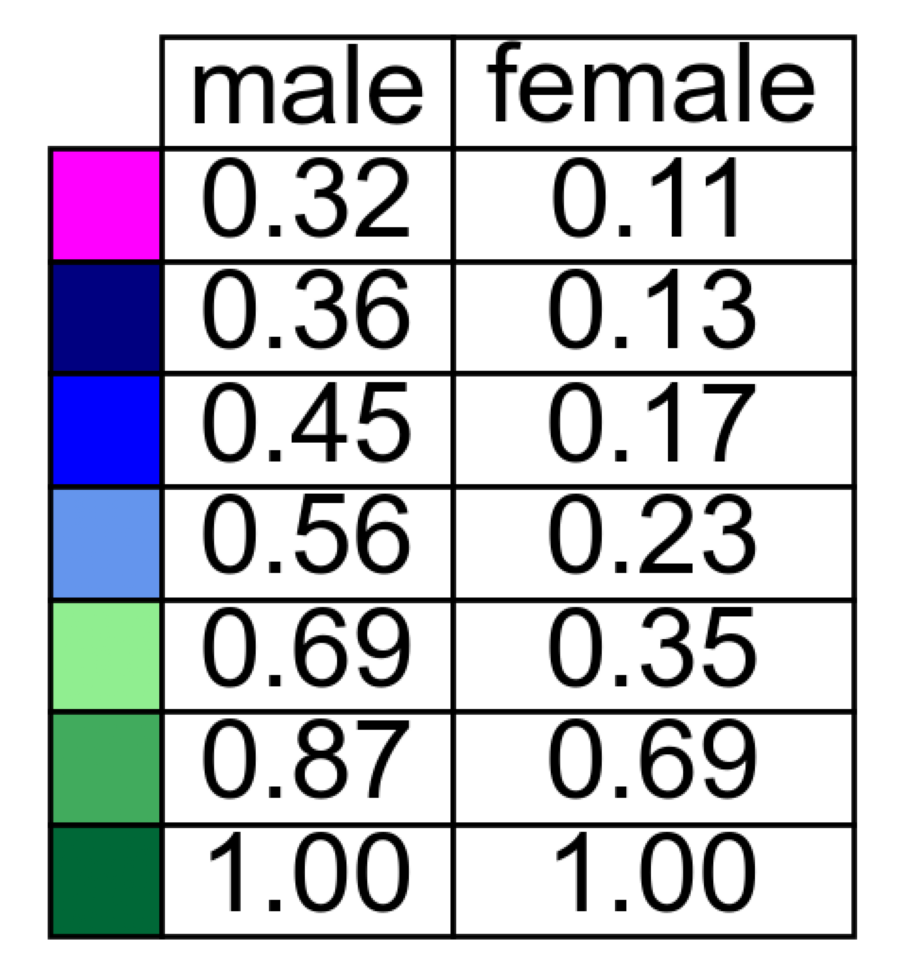
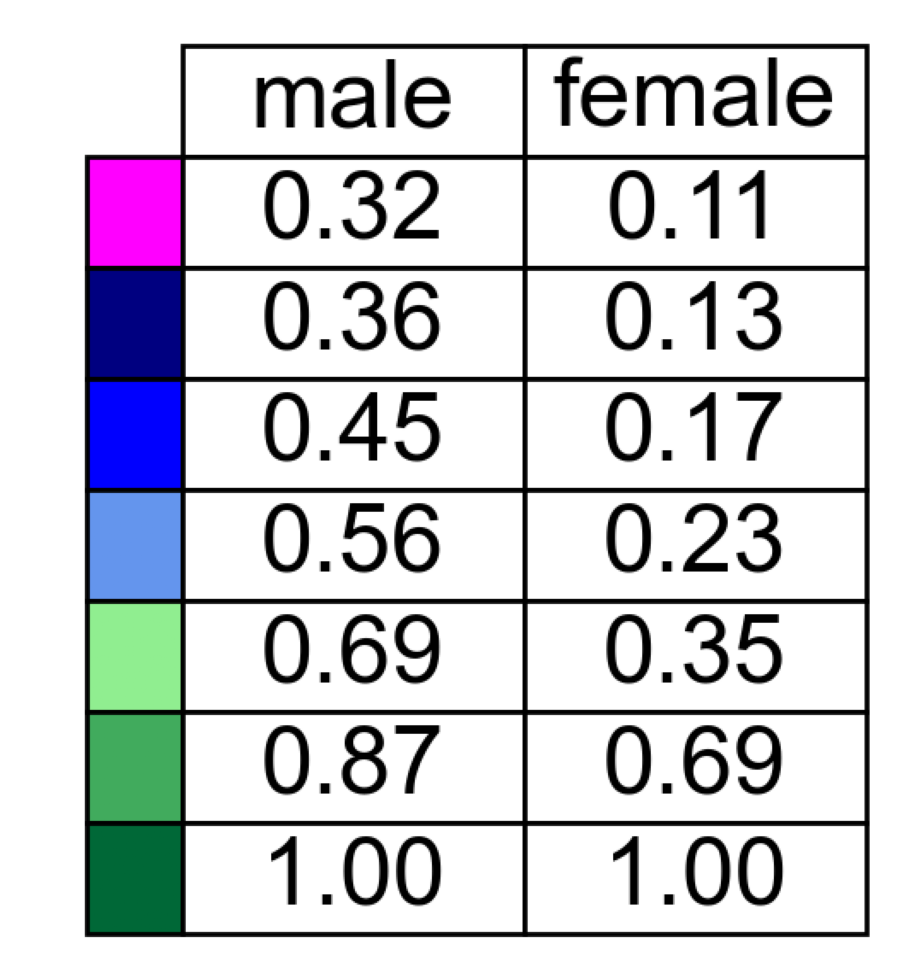
baby names exp

diff --git a/experiments/baby_names_US/change_time_decay_factor/table_smoothness.py b/experiments/baby_names_US/change_time_decay_factor/table_smoothness.py
@@ -103,18 +103,18 @@ print(headers, row_names)
 # Create a figure and a single subplot
 fig, ax = plt.subplots(figsize=(8, 6))
 
-plt.axis('off')
+
 
 # Create table with row labels
 table = plt.table(cellText=list(rows), colLabels=['male', 'female'],
-                  rowColours=[curve_colors[-1]]+curve_colors[:-1], colWidths=[0.2] * (len(headers) + 1),
+                  rowColours=[curve_colors[-1]]+curve_colors[:-1], colWidths=[0.1] * (len(headers) + 1),
                   cellLoc='center', rowLoc='center',
                   rowLabels=['   '] * len(row_names), loc='center')
 # plt.subplots_adjust(left=0.1, right=0.9, top=0.9, bottom=0.1)
 
-table.auto_set_column_width(col=list(range(len(headers) + 1)))
+# table.auto_set_column_width(col=list(range(len(headers) + 1)))
 table.PAD = 0.2
-table.scale(1, 1.1)
+table.scale(1, 1.2)
 
 
 fig.subplots_adjust(left=0, bottom=0, right=1, top=1, wspace=0, hspace=0)
@@ -124,7 +124,7 @@ plt.show()
 
 img = plt.imread("baby_names_time_decay_factor_smoothness_2f.png")
 print(img.shape)
-img_cropped = img[530:img.shape[0] - 530, 770:img.shape[1] - 830]
+img_cropped = img[520:img.shape[0] - 580, 830:img.shape[1] - 840]
 plt.axis('off')
 plt.imshow(img_cropped)
 plt.savefig("baby_names_time_decay_factor_smoothness_2f.png", bbox_inches='tight', dpi=250)
